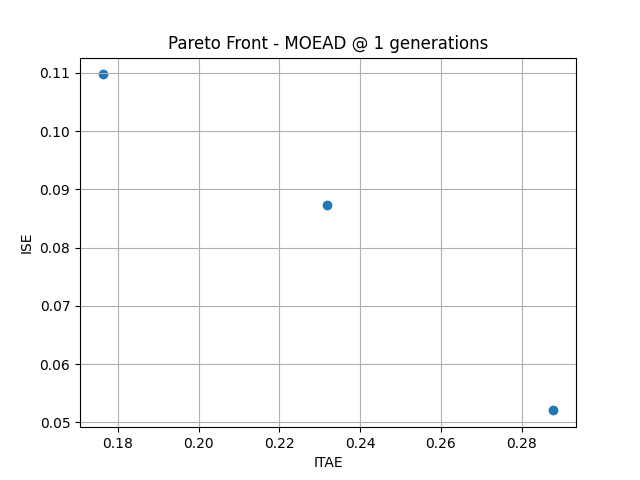
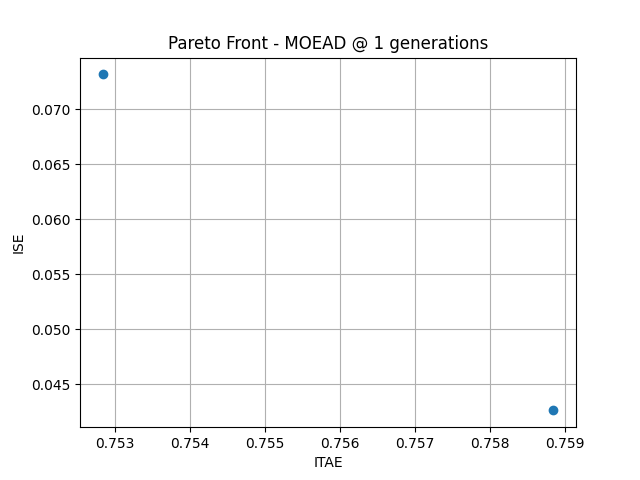
update

diff --git a/modules/algorithm.py b/modules/algorithm.py
@@ -86,7 +86,7 @@ class PIDOptimizationProblem(ElementwiseProblem):
                         n_obj=2,  # ITAE, ISE
                         n_constr=0,  # No constraints
                         xl=np.array([10, 1, 0]),  # Lower bounds for kp, ki, kd
-                        xu=np.array([50, 50, 25]))  # Upper bounds for kp, ki, kd
+                        xu=np.array([100, 25, 10]))  # Upper bounds for kp, ki, kd
 
         self.motor = motor
         self.C_pid = C_pid
